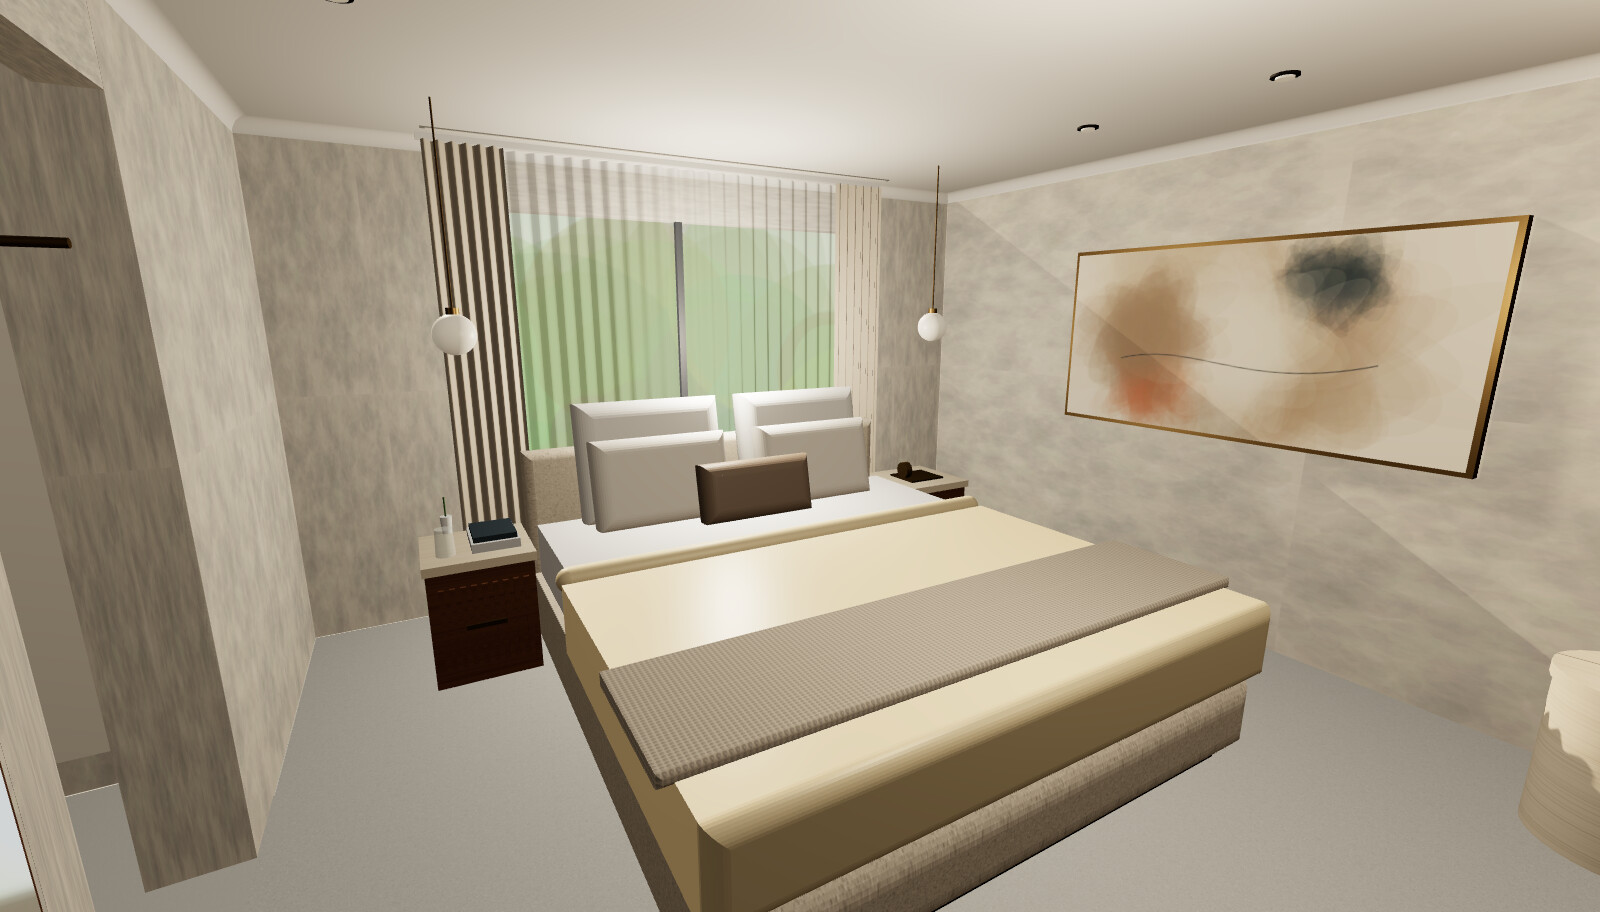
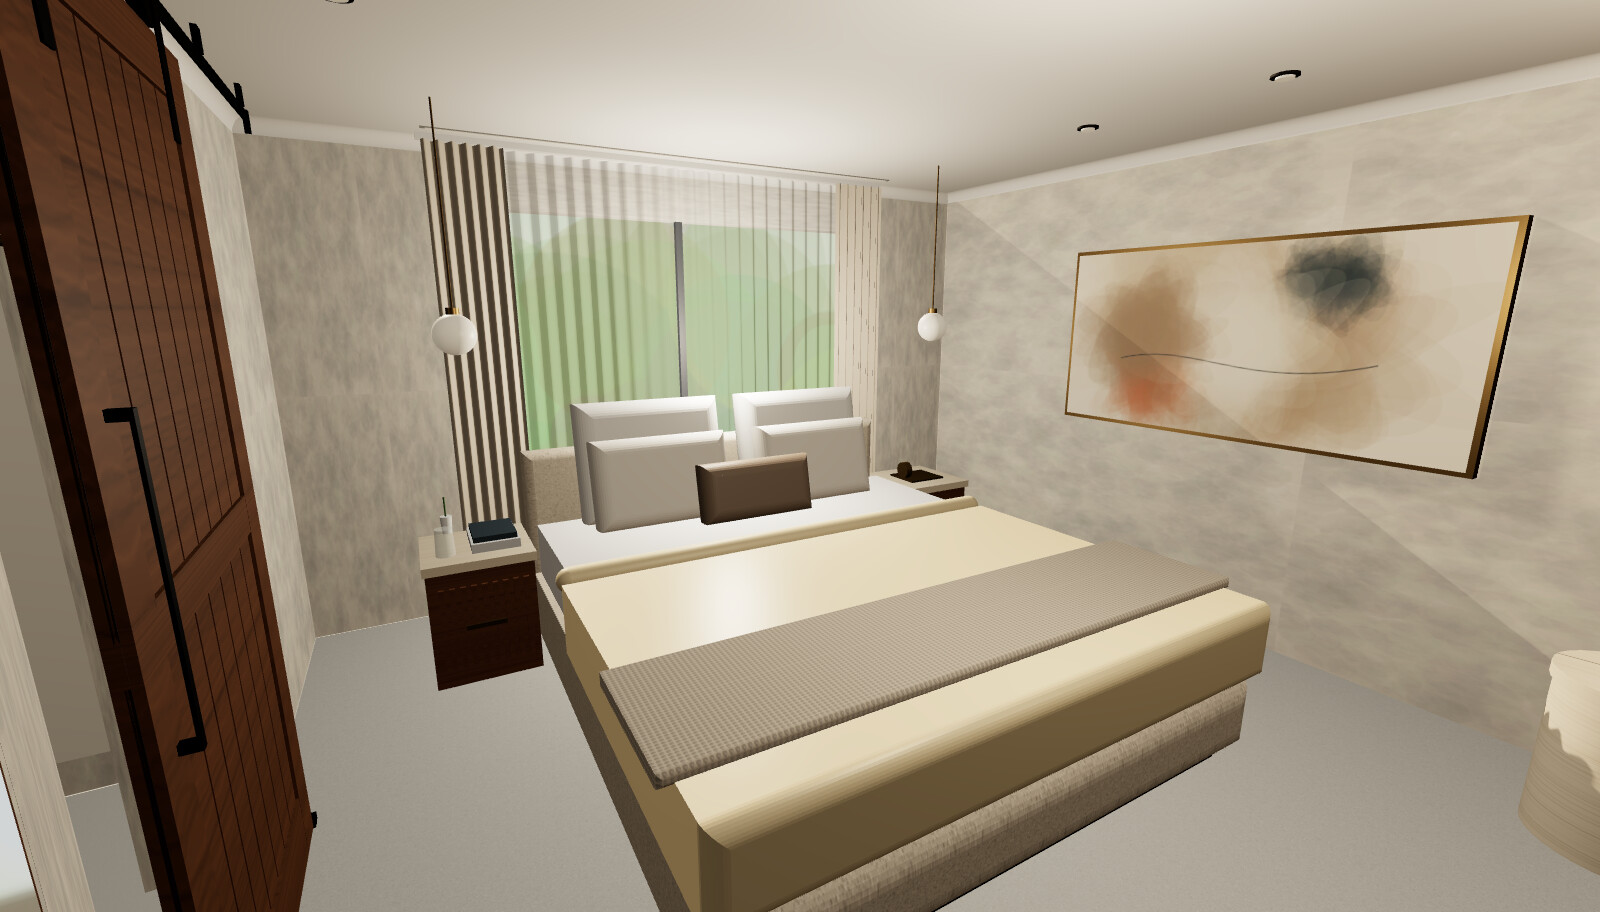
Use walnut barn door on ceiling-mounted track for robe walkway
Model defaults to ?slide=barn (?barn=frame|z, ?open=1); main renders,
Gemini references/prompts, plan SVG/PNG and DXF updated.

Claude-Session: https://claude.ai/code/session_01P4LkCESWoGV8P5QgBbWSmy

Changed region(s): [[0.0, 0.0, 0.2188, 1.0]]

diff --git a/renders/bedroom-1-3d.html b/renders/bedroom-1-3d.html
@@ -214,7 +214,7 @@ if(EW!=='none'){ const za=EW==='full'?1.0:2.25;
     const parts = (EW==='full' && z0<2.2) ? [[z0,1.2],[2.2,z1]] : [[z0,z1]];
     for(const [p0,p1] of parts){ if(p1-p0<0.02) continue; box(3.975,4.0,0,CH-0.065,p0,p1,EWM); flutes(p0,p1,3.975); } } }
 // ---------- Sliding door options for the full-height robe walkway opening (choose with ?slide=none|flush|walnut|glass|pocket|curtain) ----------
-const SLIDE=P.get('slide')||'none';
+const SLIDE=P.get('slide')||'barn';
 { const z0=2.35, z1=3.35, y0=0.015, y1=2.335, xf=3.885, xb=3.925;          // panel 1000 x 2320, ~75-115 mm off the wall, closed position
   const trackM=mat('#2b2622',0.4,0.6);
   if(['flush','walnut','glass'].includes(SLIDE)){ box(3.87,3.94,CH-0.045,CH-0.004,z0-0.02,z1+1.0,trackM,false); }   // ceiling-fixed track, travel to the south
@@ -232,6 +232,25 @@ const SLIDE=P.get('slide')||'none';
     box(3.875,3.915,y0,y1,z0+sh,z1+sh,EWM);
     for(let z=z0+sh+FL/2;z<z1+sh-FL/4;z+=FL){ const c=cyl(3.875,(y0+y1)/2,z,0.0155,0.0155,y1-y0,EWM,10); c.castShadow=false; }
     box(3.845,3.86,0.8,1.6,z0+sh+0.05,z0+sh+0.068,brass); }
+  if(SLIDE==='barn'){ const sh=P.get('open')==='1'?0.95:0, BS=P.get('barn')||'frame';   // walnut barn door on a ceiling-mounted black barn track; ?barn=frame|z, ?open=1
+    const blk=mat('#1f1c1a',0.45,0.7), a=z0+sh, b=z1+sh, X0=3.865, X1=3.905, top=2.2, dark=mat('#2e1d12',0.75);
+    box(3.882,3.888,2.285,2.33,z0-0.05,z1+1.05,blk,false);                         // flat-bar track 2.1 m
+    for(const zb of [z0-0.0,z0+0.7,z0+1.4,z1+1.0]) box(3.877,3.893,2.33,CH,zb-0.02,zb+0.02,blk,false);   // ceiling brackets
+    for(const zs of [z0-0.07,z1+1.07]) box(3.876,3.894,2.25,2.33,zs-0.012,zs+0.012,blk,false);           // end stops
+    box(X0+0.016,X1-0.016,0.012,top,a,b,dark);                                    // core / groove shadow
+    const st=0.12;
+    box(X0,X1,0.012,top,a,a+st,walnut); box(X0,X1,0.012,top,b-st,b,walnut);       // stiles
+    box(X0,X1,top-st,top,a,b,walnut); box(X0,X1,0.012,0.2,a,b,walnut);             // top + bottom rail
+    if(BS==='frame'){ box(X0,X1,1.02,1.12,a,b,walnut);
+      const n=7, w=(b-a-2*st)/n; for(let i=0;i<n;i++) for(const [ya,yb] of [[0.2,1.02],[1.12,top-st]]) box(X0+0.008,X1-0.008,ya,yb,a+st+i*w+0.004,a+st+(i+1)*w-0.004,walnut); }
+    else { const n=8, w=(b-a-2*st)/n; for(let i=0;i<n;i++) box(X0+0.008,X1-0.008,0.2,top-st,a+st+i*w+0.003,a+st+(i+1)*w-0.003,walnut);
+      box(X0,X1,1.1,1.2,a,b,walnut);
+      const L=Math.hypot(b-a-2*st,0.9-0.04), ang=Math.atan2(0.86,b-a-2*st);
+      for(const [yc] of [[0.65],[1.6]]){ const m=new THREE.Mesh(new THREE.BoxGeometry(0.044,0.1,L),walnut); m.position.set((X0+X1)/2-0.002,yc,(a+b)/2); m.rotation.x=(yc<1?1:1)*ang; m.castShadow=true; m.receiveShadow=true; scene.add(m);} }
+    for(const zs of [a+0.16,b-0.16]){ box(X0-0.005,X0,1.98,2.33,zs-0.02,zs+0.02,blk); box(X1,X1+0.005,1.98,2.2,zs-0.02,zs+0.02,blk);   // strap hangers
+      const wl=cyl(3.885,2.265,zs,0.045,0.045,0.03,blk,24); wl.rotation.z=Math.PI/2; }
+    box(X0-0.035,X0-0.028,0.85,1.45,a+0.07,a+0.09,blk); box(X0-0.035,X0,0.85,0.87,a+0.07,a+0.09,blk); box(X0-0.035,X0,1.43,1.45,a+0.07,a+0.09,blk);  // ladder pull
+    box(3.86,3.91,0,0.03,3.36,3.4,blk); }                                          // floor guide
   if(SLIDE==='pocket'){ const pz0=2.85;                                       // shown half open, sliding into a wall pocket to the south
     box(3.995,4.035,y0,CH-0.01,pz0,pz0+0.9,mat(PAL.wall,0.85)); box(3.99,3.995,1.0,1.2,pz0+0.03,pz0+0.05,mat('#3a3633',0.6));
     box(3.98,4.0,0,CH,3.3,3.32,mat(PAL.ceil,0.6)); box(3.98,4.0,0,CH,2.38,2.4,mat(PAL.ceil,0.6)); }

diff --git a/cad/make_plan_B_dxf.py b/cad/make_plan_B_dxf.py
@@ -54,4 +54,11 @@ for i, s in enumerate(['BEDROOM 1 - LAYOUT B: HEAD TO WINDOW', f'Elyse king 2060
                        'Check all dimensions on site before ordering']):
     text(tb_x + 100, -T + 1350 - i * 210, s, 85 if i == 0 else 60, al=TA.MIDDLE_LEFT)
 msp.add_lwpolyline([(RW + 2000, RL + 200), (RW + 2080, RL - 50), (RW + 2000, RL + 20), (RW + 1920, RL - 50)], close=True, dxfattribs={'layer': 'A-TEXT'}); text(RW + 2000, RL + 320, 'N', 120)
+# walnut barn door, ceiling-mounted black track, slides south (open position dashed)
+doc.layers.add('I-DOOR-BARN', color=30); doc.layers.add('I-DOOR-BARN-OPEN', color=30, linetype='DASHED')
+msp.add_line((3885, RL - 2300), (3885, RL - 4400), dxfattribs={'layer': 'I-DOOR-BARN'})
+rect(3865, RL - 3350, 3905, RL - 2350, 'I-DOOR-BARN')
+rect(3865, RL - 4300, 3905, RL - 3300, 'I-DOOR-BARN-OPEN')
+text(RW + 160, RL - 3550, 'WALNUT BARN DOOR 1000 x 2200 x 40', 50, 'I-DOOR-BARN', al=TA.MIDDLE_LEFT)
+text(RW + 160, RL - 3650, 'BLACK TRACK 2100 CEILING-MOUNTED, SLIDES SOUTH', 40, 'I-DOOR-BARN', al=TA.MIDDLE_LEFT)
 doc.set_modelspace_vport(height=7000, center=(3000, 2400)); doc.saveas(OUT); print('saved', OUT)

diff --git a/plans/make_plan_B.py b/plans/make_plan_B.py
@@ -50,6 +50,13 @@ for z0, z1, lab in [(1.0, 2.4, 'WIR 1'), (3.3, 4.9, 'WIR 2')]:
     r(RW + T, z0, RW + 1.4, z1, '#efebe5', '#9a948c', 1); t((X(RW + T) + X(RW + 1.4)) / 2, Y((z0 + z1) / 2), lab, 12, QUIET, 'middle')
 t((X(RW + T) + X(RW + 1.4)) / 2, Y(2.82), 'robe walkway 900', 10.5, QUIET, 'middle'); t((X(RW + T) + X(RW + 1.4)) / 2, Y(2.82) + 14, 'to ensuite →', 10.5, QUIET, 'middle')
 
+# walnut barn door on a ceiling-mounted track: closed over the walkway, slides south (open position dashed)
+ln(3.885, 2.30, 3.885, 4.40, '#1f1c1a', 1.6)
+r(3.865, 3.30, 3.905, 4.30, 'none', '#7a5233', 1, dash='4 3')
+r(3.865, 2.35, 3.905, 3.35, '#7a5233', '#4a3020', 1.2)
+for i, (txt, sz, col, w) in enumerate([('WALNUT BARN DOOR', 10.5, '#7a5233', '700'), ('1000 x 2200, slides south', 10, '#7a5233', '400'), ('black track 2.1 m on ceiling', 9.5, QUIET, '400')]):
+    t(X(4.18), Y(3.5) + i * 14, txt, sz, col, 'start', w)
+
 # curtains (ceiling track) - still fully operable behind the bed
 ln(0.7, 4.82, 3.3, 4.82, '#b8a99a', 3, dash='2 3')
 # bed

diff --git a/gemini/README.md b/gemini/README.md
@@ -2,7 +2,8 @@
 
 Layout B: Nick Scali Elyse king bed with its head to the south window (400 mm gap),
 artwork on the west wall, tall mirror + floor drawer on the east wall, lounge chair
-in the north-west corner, light grey carpet, flat 2.4 m ceiling with cove cornice.
+in the north-west corner, a walnut barn door on a black ceiling track closing the
+robe walkway, light grey carpet, flat 2.4 m ceiling with cove cornice.
 
 Each view = 1 reference image + 1 prompt. The image fixes the exact layout; the prompt
 tells Gemini only to make it photorealistic.
@@ -30,3 +31,4 @@ tells Gemini only to make it photorealistic.
 - "Keep the ceiling flat with a small cove cornice and small flush downlights - no chandelier, no light over the bed."
 - "The mirror is tall (0.9 x 1.9 m) and stands on a low floor-level drawer on the east wall."
 - "There is no TV anywhere in the room."
+- "The robe walkway on the east wall is closed by ONE walnut barn door (1.0 x 2.2 m) hanging from a matte-black barn track fixed to the ceiling; it slides toward the window. Keep it a solid timber door, not glass."
